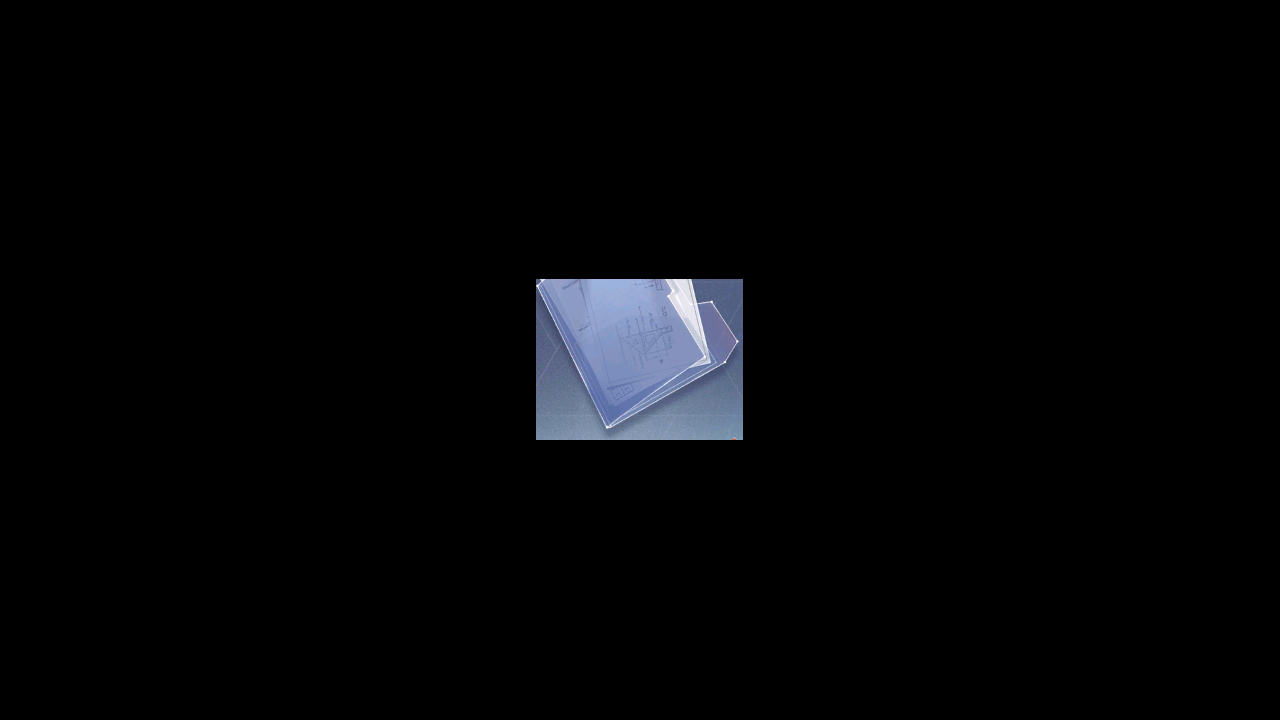
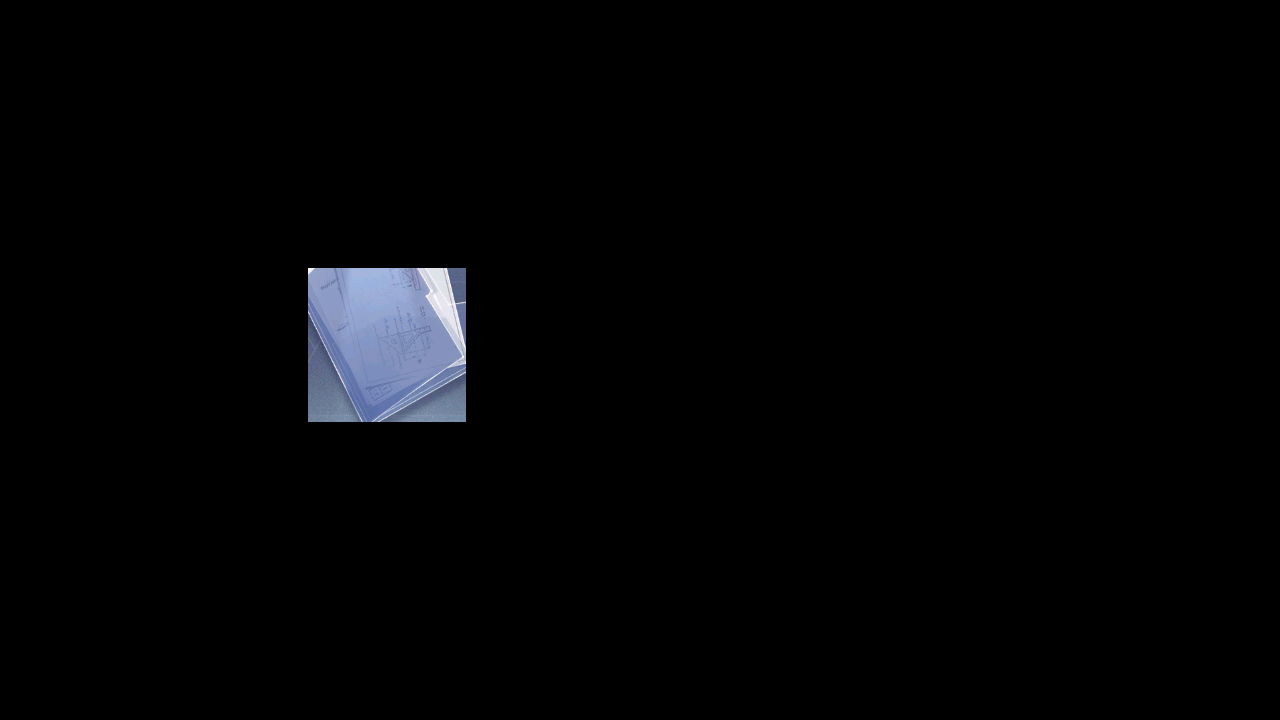
Fix[tw]: Asserts replace RESHMENU_GOTO_RESEARCH

Changed region(s): [[0.4062, 0.3667, 0.5938, 0.6111], [0.2188, 0.3667, 0.375, 0.6111]]

diff --git a/module/ui/assets.py b/module/ui/assets.py
@@ -60,7 +60,7 @@ PLAYER_CHECK = Button(area={'cn': (28, 668, 139, 688), 'en': (11, 649, 157, 705)
 RAID_CHECK = Button(area={'cn': (118, 14, 227, 39), 'en': (115, 9, 262, 42), 'jp': (118, 14, 226, 39), 'tw': (119, 13, 226, 38)}, color={'cn': (143, 161, 202), 'en': (82, 98, 136), 'jp': (149, 167, 206), 'tw': (153, 167, 205)}, button={'cn': (118, 14, 227, 39), 'en': (115, 9, 262, 42), 'jp': (118, 14, 226, 39), 'tw': (119, 13, 226, 38)}, file={'cn': './assets/cn/ui/RAID_CHECK.png', 'en': './assets/en/ui/RAID_CHECK.png', 'jp': './assets/jp/ui/RAID_CHECK.png', 'tw': './assets/tw/ui/RAID_CHECK.png'})
 RESEARCH_CHECK = Button(area={'cn': (118, 15, 170, 39), 'en': (119, 14, 259, 36), 'jp': (117, 14, 171, 40), 'tw': (115, 12, 174, 44)}, color={'cn': (165, 179, 215), 'en': (118, 133, 174), 'jp': (135, 154, 195), 'tw': (125, 141, 181)}, button={'cn': (118, 15, 170, 39), 'en': (119, 14, 259, 36), 'jp': (117, 14, 171, 40), 'tw': (115, 12, 174, 44)}, file={'cn': './assets/cn/ui/RESEARCH_CHECK.png', 'en': './assets/en/ui/RESEARCH_CHECK.png', 'jp': './assets/jp/ui/RESEARCH_CHECK.png', 'tw': './assets/tw/ui/RESEARCH_CHECK.png'})
 RESHMENU_CHECK = Button(area={'cn': (121, 15, 174, 39), 'en': (118, 14, 279, 35), 'jp': (116, 13, 174, 42), 'tw': (116, 12, 179, 43)}, color={'cn': (156, 171, 209), 'en': (100, 113, 152), 'jp': (136, 149, 186), 'tw': (116, 129, 167)}, button={'cn': (121, 15, 174, 39), 'en': (118, 14, 279, 35), 'jp': (116, 13, 174, 42), 'tw': (116, 12, 179, 43)}, file={'cn': './assets/cn/ui/RESHMENU_CHECK.png', 'en': './assets/en/ui/RESHMENU_CHECK.png', 'jp': './assets/jp/ui/RESHMENU_CHECK.png', 'tw': './assets/tw/ui/RESHMENU_CHECK.png'})
-RESHMENU_GOTO_RESEARCH = Button(area={'cn': (308, 268, 466, 422), 'en': (308, 268, 466, 422), 'jp': (308, 268, 466, 422), 'tw': (536, 279, 743, 440)}, color={'cn': (132, 147, 184), 'en': (132, 147, 184), 'jp': (132, 147, 184), 'tw': (122, 137, 173)}, button={'cn': (308, 268, 466, 422), 'en': (308, 268, 466, 422), 'jp': (308, 268, 466, 422), 'tw': (536, 279, 743, 440)}, file={'cn': './assets/cn/ui/RESHMENU_GOTO_RESEARCH.png', 'en': './assets/en/ui/RESHMENU_GOTO_RESEARCH.png', 'jp': './assets/jp/ui/RESHMENU_GOTO_RESEARCH.png', 'tw': './assets/tw/ui/RESHMENU_GOTO_RESEARCH.png'})
+RESHMENU_GOTO_RESEARCH = Button(area={'cn': (308, 268, 466, 422), 'en': (308, 268, 466, 422), 'jp': (308, 268, 466, 422), 'tw': (308, 268, 466, 422)}, color={'cn': (132, 147, 184), 'en': (132, 147, 184), 'jp': (132, 147, 184), 'tw': (132, 147, 184)}, button={'cn': (308, 268, 466, 422), 'en': (308, 268, 466, 422), 'jp': (308, 268, 466, 422), 'tw': (308, 268, 466, 422)}, file={'cn': './assets/cn/ui/RESHMENU_GOTO_RESEARCH.png', 'en': './assets/en/ui/RESHMENU_GOTO_RESEARCH.png', 'jp': './assets/jp/ui/RESHMENU_GOTO_RESEARCH.png', 'tw': './assets/tw/ui/RESHMENU_GOTO_RESEARCH.png'})
 RESHMENU_GOTO_SHIPYARD = Button(area={'cn': (567, 275, 731, 397), 'en': (567, 275, 731, 397), 'jp': (567, 275, 731, 397), 'tw': (567, 275, 731, 397)}, color={'cn': (113, 126, 162), 'en': (113, 126, 162), 'jp': (113, 126, 162), 'tw': (113, 126, 162)}, button={'cn': (567, 275, 731, 397), 'en': (567, 275, 731, 397), 'jp': (567, 275, 731, 397), 'tw': (567, 275, 731, 397)}, file={'cn': './assets/cn/ui/RESHMENU_GOTO_SHIPYARD.png', 'en': './assets/en/ui/RESHMENU_GOTO_SHIPYARD.png', 'jp': './assets/jp/ui/RESHMENU_GOTO_SHIPYARD.png', 'tw': './assets/tw/ui/RESHMENU_GOTO_SHIPYARD.png'})
 REWARD_CHECK = Button(area={'cn': (219, 107, 267, 158), 'en': (219, 107, 267, 158), 'jp': (219, 107, 267, 158), 'tw': (219, 107, 267, 158)}, color={'cn': (143, 116, 123), 'en': (143, 116, 123), 'jp': (143, 116, 123), 'tw': (143, 116, 123)}, button={'cn': (219, 107, 267, 158), 'en': (219, 107, 267, 158), 'jp': (219, 107, 267, 158), 'tw': (219, 107, 267, 158)}, file={'cn': './assets/cn/ui/REWARD_CHECK.png', 'en': './assets/en/ui/REWARD_CHECK.png', 'jp': './assets/jp/ui/REWARD_CHECK.png', 'tw': './assets/tw/ui/REWARD_CHECK.png'})
 REWARD_GOTO_COMMISSION = Button(area={'cn': (383, 262, 503, 302), 'en': (384, 261, 503, 304), 'jp': (383, 262, 503, 302), 'tw': (383, 262, 503, 302)}, color={'cn': (91, 136, 199), 'en': (89, 133, 197), 'jp': (91, 134, 196), 'tw': (91, 136, 199)}, button={'cn': (383, 262, 503, 302), 'en': (384, 261, 503, 304), 'jp': (383, 262, 503, 302), 'tw': (383, 262, 503, 302)}, file={'cn': './assets/cn/ui/REWARD_GOTO_COMMISSION.png', 'en': './assets/en/ui/REWARD_GOTO_COMMISSION.png', 'jp': './assets/jp/ui/REWARD_GOTO_COMMISSION.png', 'tw': './assets/tw/ui/REWARD_GOTO_COMMISSION.png'})
